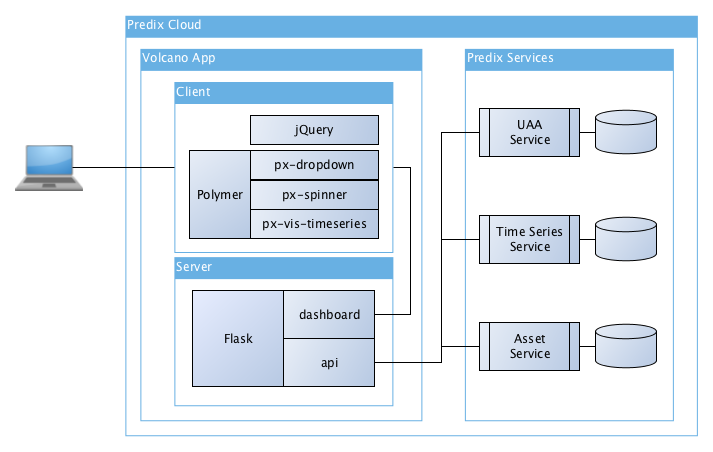
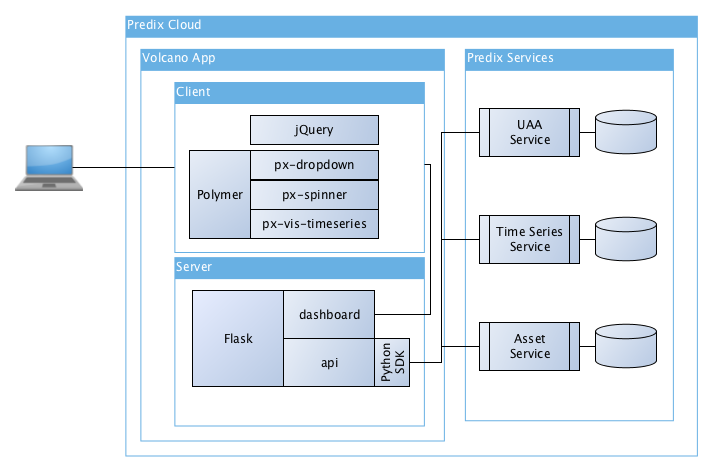
documentation around devops and updated architecture diagram

diff --git a/docs/devops/index.rst b/docs/devops/index.rst
@@ -1,0 +1,216 @@
+
+DevOps
+======
+
+This section looks in more detail at some of the DevOps concerns for running a
+production application such as the Predix Volcano App.  The development plan
+for this project aimed to follow principles of the `twelve-factor app`_
+methodology for building software.
+
+.. _twelve-factor app: https://12factor.net/
+
+Configuration
+-------------
+
+This section discuses the factors for the *Codebase*, *Dependencies*, and *Config*.
+
+The source code for the project is stored in a revision control system on
+GitHub to enable tracking of changes and deploy releases of the code at various
+stages of development.  It was split between two separate repositories:
+
+- `predixpy`_: which is home to the client library useful for working with
+  Predix Services from Python
+- `predix-volcano-app`_: which is home to the reference application and
+  this documentation along with volcano data
+
+There are a few ways which the dependencies are specified.
+
+Python
+......
+
+Python dependencies are configured in *setup.py* and *requirements.txt* as is
+the typical approach for Python development with setuptools.  Typically the
+``pip install`` will pull these dependencies down for local development.  When
+doing a ``cf push`` the Cloud Foundry buildpack will also reference these files
+for building the container.
+
+JavaScript
+..........
+
+Running ``npm install`` pulls down any JavaScript libraries specified in
+*package.json* which are needed for building the application.  This includes
+primarily **bower** and **gulp**.
+
+Predix UI
+.........
+
+Being based on Polymer Predix UI components share the **bower** dendency.  The
+UI components used in the reference app are specified in the *bower.json* file
+and are resolved when running ``bower install``.
+
+Cloud Foundry
+.............
+
+The *manifest.yml* file is generated when you run the *create_services.py*
+script as part of the Getting Started Guide.  The purpose is to provide
+bindings for dependent service instances used by the application.  It also
+includes a few additional configuration details such as the Cloud Foundry
+Python buildpack the solution is dependent upon.
+
+.. note::
+
+   The *manifest.yml* is excluded from the repository for security reasons
+   since it contains details about accessing your services.  The intention is
+   that you would encrypt the keys / endpoints using a private key.
+
+.. _predix-volcano-app: https://github.com/PredixDev/predix-volcano-app
+.. _predixpy: https://github.com/PredixDev/predixpy
+
+Operations
+----------
+
+This section discusses factors for Backing Services, Build / Release / Run,
+Processes, Port binding, Concurrency, and Disposability.
+
+Cloud Foundry
+.............
+
+There are many other good resources on basics of `Cloud Foundry`_ for learning
+about the open source platform as a service.  They key advantages for the
+volcano app:
+
+- Can run the Volcano App on AWS, MS Azure, or on premises because Cloud
+  Foundry supports multiple cloud infrastructures.
+
+- Provides a co-development environment where runtimes are scoped to an
+  organization and space so it was easy for a team to collaborate and share the
+  same services while insulating the production space from only release
+  engineering concerns or qa space for only a CI/CD system.
+
+- Provides container orchestration so once ``cf push`` is complete for an app
+  the platform is able to keep it running and available. So long as there are no
+  software defects the platform provides disposability of containers along with
+  resiliency to bring the app back up again.
+
+- Cloud Foundry provides a marketplace of backing services -- so the volcano
+  app could be stateless and services such as Predix Asset and Predix Time
+  Series handle persistence.  By being stateless we can maximize concurrency of
+  the application and data reads with the Cloud Foundry router balancing load
+  across instances.
+
+- Cloud Foundry provides port binding and environment configuration so that the
+  application itself can have multiple runtimes and reduce concerns around
+  misconfigurations.
+
+Apps
+....
+
+Running ``cf app volcano-qa`` shows the resources assigned to and being
+consumed by the application::
+
+   name:              volcano-qa
+   requested state:   started
+   instances:         1/1
+   usage:             1G x 1 instances
+   routes:            volcano-qa.run.aws-usw02-pr.ice.predix.io
+   last uploaded:     Tue 22 Aug 19:12:29 PDT 2017
+   stack:             cflinuxfs2
+   buildpack:         python 1.5.15
+
+   state     since                  cpu    memory         disk details
+   #0   running   2017-08-23T02:15:22Z   0.0%   223.6M of 1G   396.1M of 1G
+
+It is also easily to scale the application horizontally with the command ``cf
+scale -i 3`` to create 3 instances::
+
+     state     since                  cpu    memory         disk
+     details
+     #0   running   2017-08-23T15:02:36Z   0.0%   172.7M of 1G   416.1M of 1G
+     #1   running   2017-08-26T14:54:54Z   0.0%   172.4M of 1G   416M of 1G
+     #2   running   2017-08-23T15:02:36Z   0.0%   171.7M of 1G   416M of 1G
+
+When we first launched the marketing campaign for this project there is an
+expectation of increased load.  For industrial applications, there may also be
+common patterns around maintenance, weekends, etc. where it may not be
+necessary to reserve as many resources exclusively for the app.
+
+In this example, memory and disk consumption is not fully utilized so it may
+also be worth considering vertically downscaling these instances to better size
+resources to the application.
+
+.. _Cloud Foundry: https://www.cloudfoundry.org/
+
+Quality Assurance
+-----------------
+
+This section discusses factors for Dev/Prod parity.
+
+Spaces
+......
+
+The application leverages Cloud Foundry's capability to setup multiple spaces
+within an Enterprise Organization for team collaboration.  Since the setup
+scripts were designed to reproduce creating services and ingesting data, it was
+possible to setup multiple near identical environments or reset them back to an
+original state after running a test.
+
+Running ``cf spaces`` in the organization shows multiple environments::
+
+   volcano-j12y
+   volcano-prod
+   volcano-qa
+
+Each developer can have a space dedicated to their own individual work or
+function, or multiple developers could operate within the same environment and
+then use a separate environment for integration.
+
+CI/CD
+.....
+
+Utilizing a tool like **Jenkins**, source code check-ins to GitHub can trigger
+an automatic build and deploy as well as run a full test suite against mock
+services or a fully integrated envrionment.
+
+Monitoring
+----------
+
+This section looks at the factors for Logs and Admin Processes.
+
+Smoke Test
+..........
+
+A simple Smoke Test such as this example was created against the
+``/api/1.0/healthcheck`` endpoint to verify the production app is alive.  Any
+spikes in response time can trigger an alarm to attend to the application.
+Here is a sample bash health check script::
+
+    set -e
+    export responseCurl=$(curl --write-out %{http_code} --output /dev/null https://volcano-app.run.aws-usw02-pr.ice.predix.io/api/1.0/health)
+    if [ $responseCurl -ne 200 ]; then
+        echo "Failed"
+        exit 1
+    else
+        echo "Success"
+        exit 0
+    fi
+
+Logging
+.......
+
+Cloud Foundry provides ``cf logs`` for tailing logs of the application of ``cf
+logs --recent`` to see any log output still buffered.  If you completed the
+Getting Started Guide you may have an instance of the Volcano App running, but
+for production we also plug in Cloud Foundry with the Logging Service.
+
+Running `cf s` shows a list of the services including **logstash-3**::
+
+    name                                service             plan   bound apps
+    last operation
+    volcano-qa-logstash-3-free          logstash-3          free   volcano-qa,
+    volcano-qa-kibana   create succeeded
+
+It is bound to the volcano app but also an instance of kibana so that it is
+possible to search, filter, and review many days of log output beyond what the
+``cf logs`` command can produce.
+
+.. _Logging Service: https://www.predix.io/services/service.html?id=1184

diff --git a/README.md b/README.md
@@ -46,11 +46,11 @@ To access the volcano data you have a few options.
 The following services have Free trial plans sufficient to run this
 application.
 
-- [Predix User Account and Authentication][uaa] (UAA)
-- [Predix Time Series][timeseries]
-- [Predix Asset][asset]
+- [PredixPy][predixpy] (Python SDK)
 - [Predix UI][ui]
-- [PredixPy][predixpy]
+- [Predix Asset][asset]
+- [Predix Time Series][timeseries]
+- [User Account and Authentication][uaa] (UAA)
 
 # Getting Help
 
